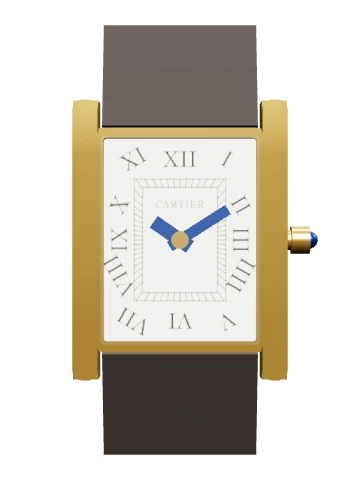
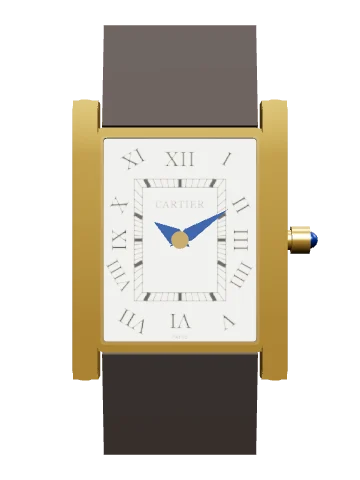
Cartier Tank front checked against a photograph: Paris at the foot, heavy five-minute bars on the track, tidier numerals, tapered hands in the Workbench

diff --git a/workbench/watches/tank-louis-cartier.js b/workbench/watches/tank-louis-cartier.js
@@ -16,7 +16,7 @@ export default {
     type: 'procedural',
     builder: 'round-chronograph',
     note: 'Sizes varied across a century of production, so the case dimensions here are representative, not definitive. Many movements were fitted; the one shown is LeCoultre’s calibre 818, which dealers describe in Paris-made Tanks of the late 1960s. Its size and beat are from LeCoultre’s own sheet and its layout is measured from the small photographs on that sheet; other sizes, heights, tooth counts and outlines are estimated. Not a factory model or scan.',
-    params: { thickness: 6.5, lugToLug: 30, lugWidth: 17.3, movementDiameter: 20.8, beatsPerHour: 18000, calibre: '818', spacer: false, caseShape: 'tank', bodyHalfH: 12, dialHalfW: 8.2, dialHalfH: 10.9, wall: 3.2, chrono: false, noSeconds: true, dustCover: false, bezelInsert: false, metal: 'gold', handKind: 'blue', cabochon: true, crownR: 1.5, plate: 'steel' }
+    params: { thickness: 6.5, lugToLug: 30, lugWidth: 17.3, movementDiameter: 20.8, beatsPerHour: 18000, calibre: '818', spacer: false, caseShape: 'tank', bodyHalfH: 12, dialHalfW: 8.2, dialHalfH: 10.9, wall: 3.2, chrono: false, noSeconds: true, dustCover: false, bezelInsert: false, metal: 'gold', handKind: 'blue', hands: 'dauphine', cabochon: true, crownR: 1.5, plate: 'steel' }
   },
   images: [],
 
@@ -63,12 +63,12 @@ export default {
       significance: '', related: ['crystal', 'case'] },
     { id: 'dial', name: 'Dial', group: 'Exterior', status: 'D', anchor: [-5, -6, 2.7], face: 1,
       beginner: 'The pale dial with Roman numerals stretched to follow the rectangle, and a track of minute marks like a railway line.',
-      horologist: 'Roman numerals radiating from the centre and a chemin-de-fer minute track that follows the rectangle. The numerals are distorted on purpose, so that each one points at the centre.',
+      horologist: 'Roman numerals radiating from the centre and a chemin-de-fer minute track that follows the rectangle. The numerals are distorted on purpose, so that each one points at the centre, and four is written IIII. The track carries a fine line at each minute and a heavy bar at each five. CARTIER is printed inside the track and PARIS at the foot, as on dials made in Paris. Dials from the late 1970s onward hide a tiny signature in one stroke of a numeral; the dial shown is of the earlier kind and has none. The layout follows a dealer’s photograph of a Paris-dial example; the typefaces are approximations and the numerals are not stretched as far as the real ones.',
       fn: 'Displays hours and minutes.', material: 'Not specified',
       significance: 'Fitting a circle of hours into a rectangle is the design problem the Tank’s dial solves.', related: ['hands'] },
     { id: 'hands', name: 'Hands', group: 'Exterior', status: 'D', anchor: [2, 5, 3.0], face: 1,
       beginner: 'Two blue hands for hours and minutes. There is no seconds hand.',
-      horologist: 'Blued steel sword hands, hours and minutes only. The blue is the colour steel takes when heated, not a paint. The model’s hands are plain bars.',
+      horologist: 'Blued steel sword hands, hours and minutes only. The blue is the colour steel takes when heated, not a paint. The model’s hands are plain tapered blades, widest near the centre.',
       fn: 'Indicate hours and minutes.', material: 'Blued steel',
       significance: '', related: ['dial'] },
     { id: 'case', name: 'Case and brancards', group: 'Exterior', status: 'D', anchor: [-10.2, 13, 0.5], face: 0,

diff --git a/draw.js b/draw.js
@@ -272,8 +272,8 @@ function markers(w, g, skip) {
     case 'roman': {
       const a1 = g.dhw * 0.6, b1 = g.dhh * 0.6, t1 = rectEdge(a1, b1), t2 = rectEdge(a1 - 0.9, b1 - 0.9);
       s += Pa(rrD(a1, b1, 0.01), 't') + Pa(rrD(a1 - 0.9, b1 - 0.9, 0.01), 't');
-      for (let i = 0; i < 60; i++) { const a = i * 6, p = P(a, t1(a)), q = P(a, t2(a)); s += L(p[0], p[1], q[0], q[1], i % 5 ? 't' : 'l'); }
-      for (let h = 0; h < 12; h++) { const a = h * 30, r = (E(a) + t1(a)) / 2, sz = 2.5; s += T(ROMAN[h], 0, 0, sz, 'tx rom', `transform="rotate(${a}) translate(0,${f(-r + sz * 0.36)})"`); }
+      for (let i = 0; i < 60; i++) { const a = i * 6, p = P(a, t1(a)), q = P(a, t2(a)); s += L(p[0], p[1], q[0], q[1], i % 5 ? 't' : 'bar'); } // a fine line at each minute and a heavy bar at each five, as on the watch
+      for (let h = 0; h < 12; h++) { const a = h * 30, r = (E(a) + t1(a)) / 2, sz = ROMAN[h].length > 3 ? 1.95 : 2.25; /* the two widest numerals are set a little smaller so they clear the edge */ s += T(ROMAN[h], 0, 0, sz, 'tx rom', `transform="rotate(${a}) translate(0,${f(-r + sz * 0.36)})"`); }
       break;
     }
     case 'rectbaton': {
@@ -392,7 +392,7 @@ function dtext(w, g, o) {
     if (q.mono) s += T(q.mono[0], 0, R0 * q.mono[1], R0 * 0.16, 'tx nm', 'style="font-family:Georgia,serif;font-weight:bold" letter-spacing="-.12em"'); // an applied monogram, shown as its two letters set close; the real one interlocks them
     if (q.crown != null) { const u = R0 * 0.075, y0 = R0 * q.crown; s += Pa(polyD([[-.55, 0], [-.95, -.7], [-.45, -.32], [-.5, -.98], [-.12, -.38], [0, -1.12], [.12, -.38], [.5, -.98], [.45, -.32], [.95, -.7], [.55, 0]].map(p => [f(p[0] * u), f(y0 + p[1] * u)])), 'k dl') + [[-.95, -.7], [-.5, -.98], [0, -1.12], [.5, -.98], [.95, -.7]].map(p => C(u * 0.1, p[0] * u, y0 + p[1] * u, 'k dl')).join('') + RC(-0.55 * u, y0 + 0.08 * u, 1.1 * u, 0.12 * u, 'k dl'); }
     q.lines.forEach(l => { s += T(l[0].replace(/&/g, '&amp;'), 0, R0 * l[1], R0 * l[2], 'tx dl', l[3] === 2 ? 'style="font-style:italic"' : l[3] ? sans : 'letter-spacing=".06em"'); }); // 2: a script line, approximated in italic
-    if (q.foot) s += T(q.foot, 0, q.footY ? R0 * q.footY : R0 - 0.12, R0 * 0.042, 'tx dl', sans);
+    if (q.foot) s += T(q.foot, 0, q.footY ? R0 * q.footY : g.dhh ? g.dhh - 0.3 : R0 - 0.12, R0 * (g.dhh ? 0.07 : 0.042), 'tx dl', sans); // on a rectangular dial the word sits just inside the lower edge
     return s;
   }
   /* With registers at three and nine, the second line has to sit above their tops, or its ends run into them; the first line moves up with it. */

diff --git a/data.js b/data.js
@@ -71,7 +71,7 @@ window.WATCHES = [
 {
   id:'tanklc', brand:'Cartier', model:'Tank Louis Cartier', ref:'-', year:'1922', span:'1922 onward', kind:'Dress watch',
   c:{shape:'tank', w:23, h:30, da:'a', t:[6.5,'n'], lug:null},
-  dial:{dark:false, markers:'roman', text:['CARTIER']},
+  dial:{dark:false, markers:'roman', text:['CARTIER'], set:{lines:[['CARTIER',-0.42,0.135,0]], foot:'PARIS'}},
   hands:'epee', sec:'none', crown:{pos:3, cabochon:true}, strap:'leather',
   mv:{cal:'not specified', type:'manual', vph:18000, wind:'Manual', note:'Early movements were supplied through the European Watch & Clock Co., Cartier’s venture with Edmond Jaeger and LeCoultre. Many calibres followed, so none is named as the Tank’s. The Workbench shows one real example: LeCoultre’s calibre 818 (20.80 mm, 18,000 A/h), which dealers describe in Paris-made Tanks of the late 1960s.'},
   back:{type:'plainrect', note:'Detail not verified; shown plain.'},
